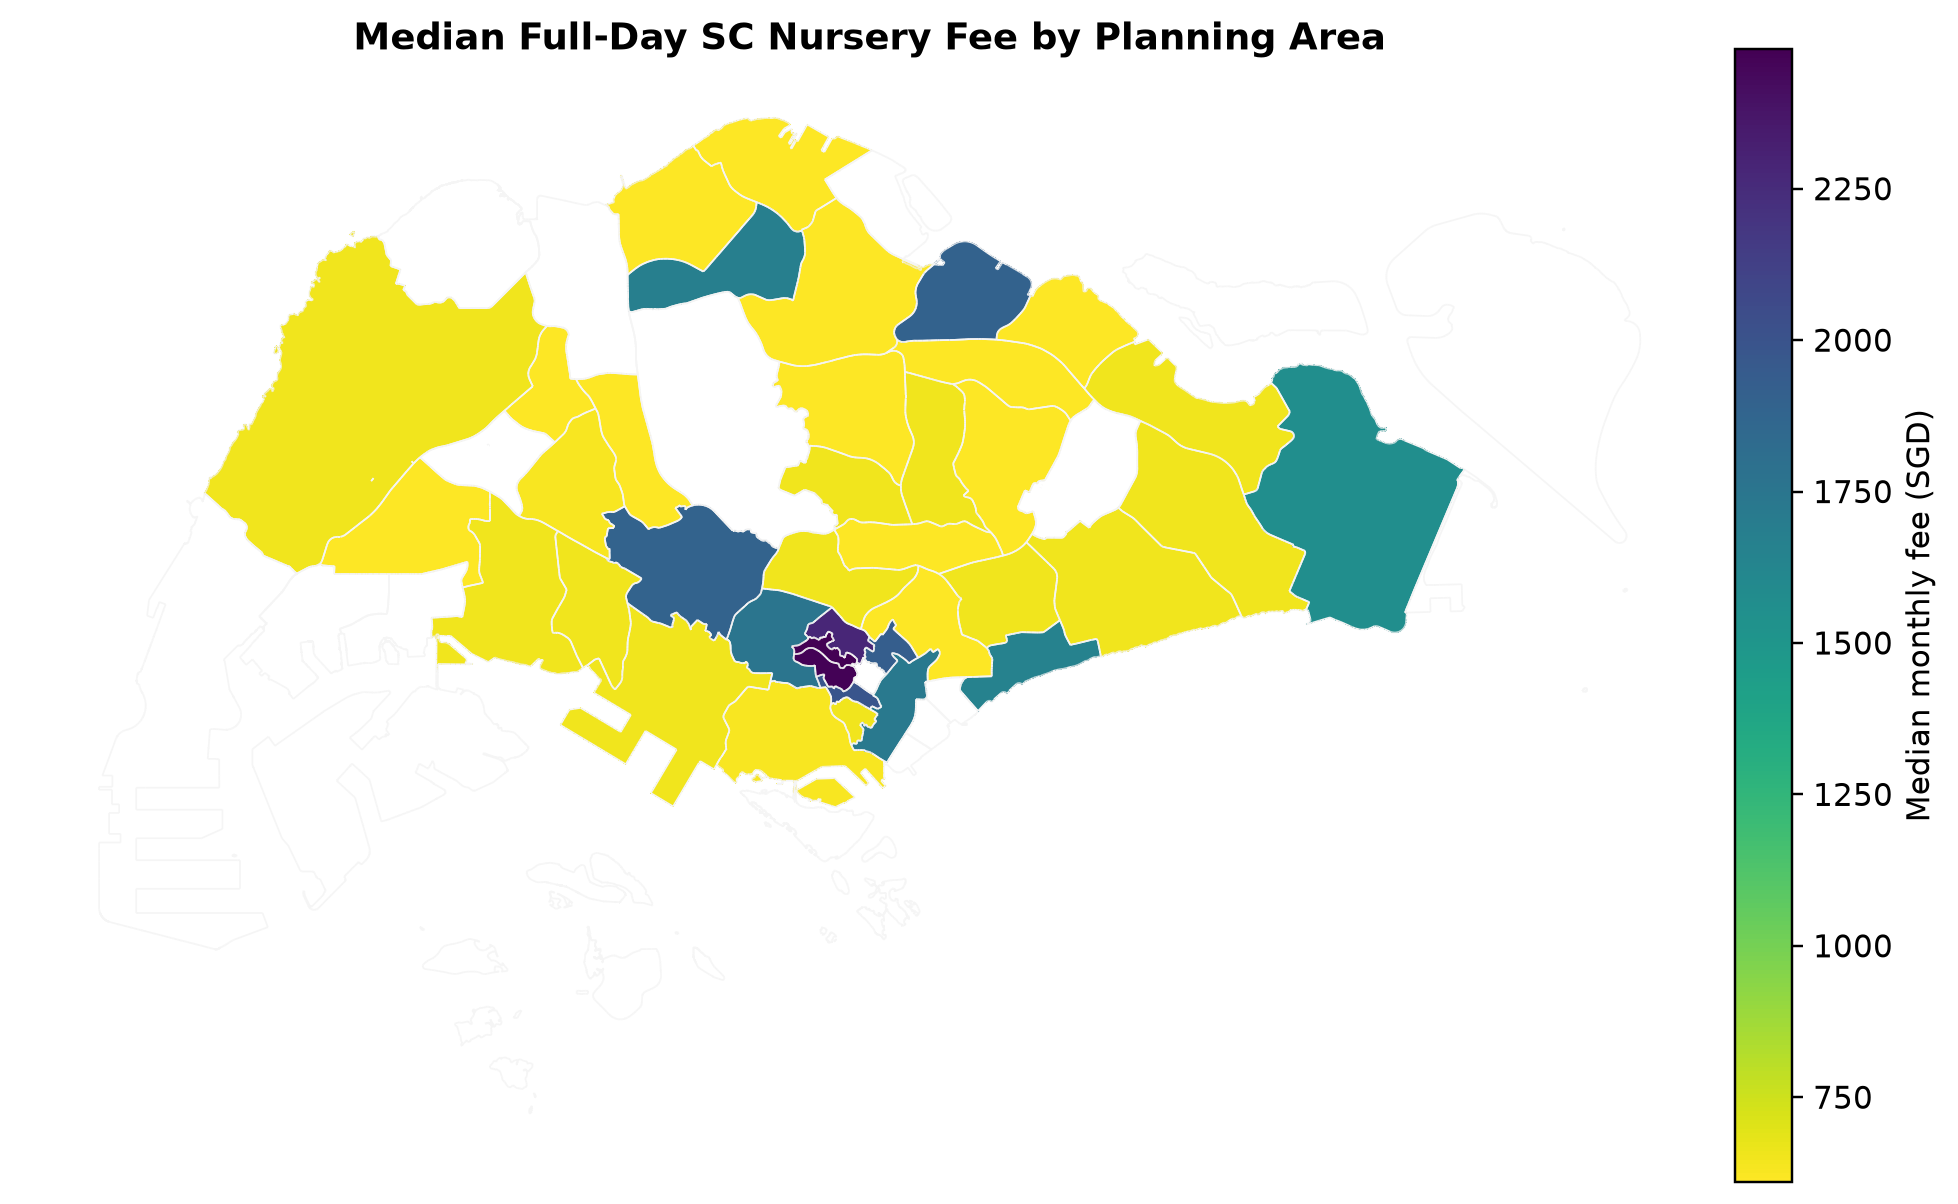
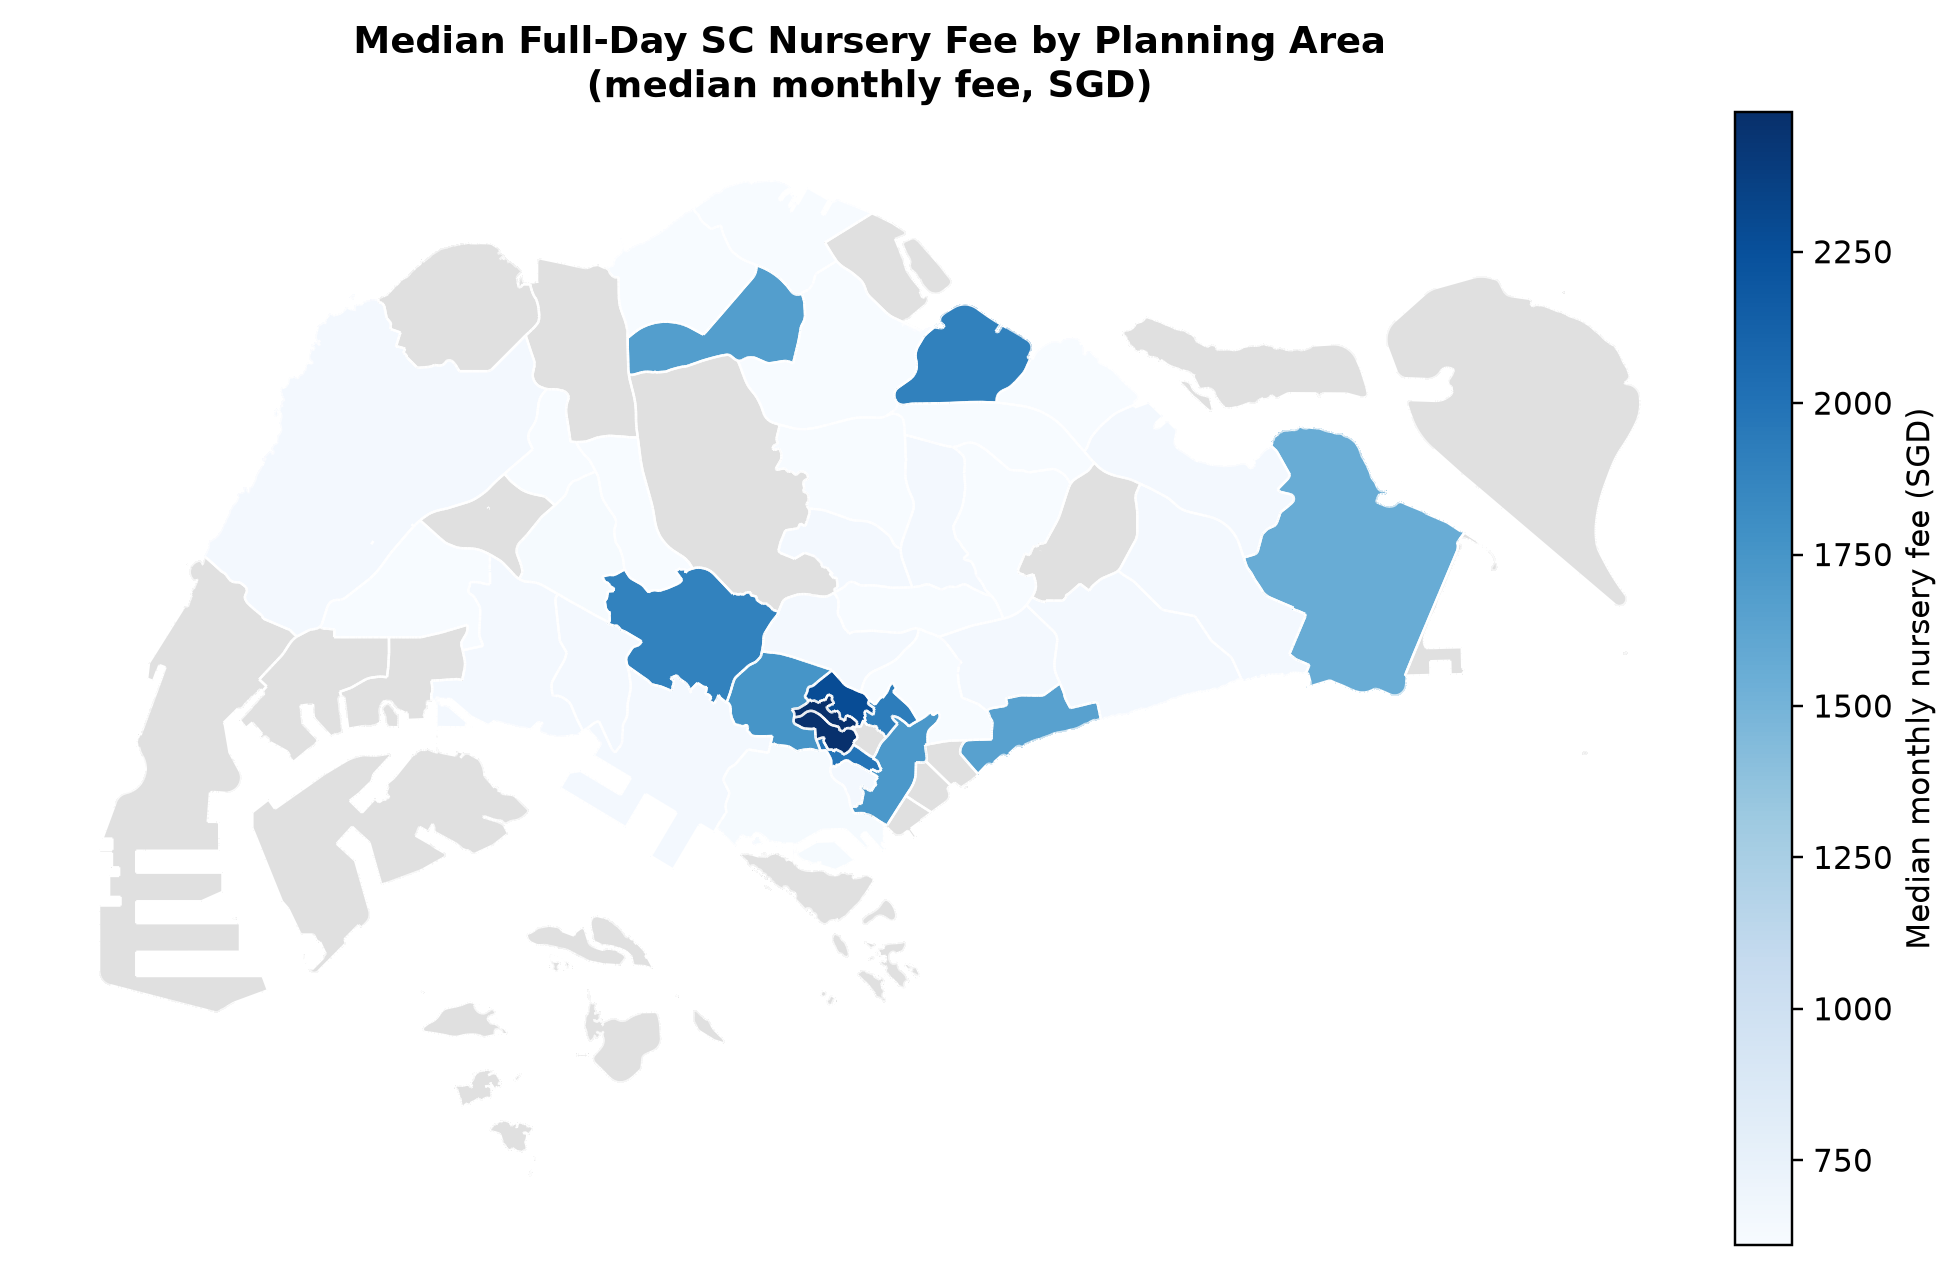
Update Nursery Fees Distribution Plots

diff --git a/scripts/spatial_autocorrelation_nursery_fee.py b/scripts/spatial_autocorrelation_nursery_fee.py
@@ -26,7 +26,7 @@ from pathlib import Path
 import matplotlib
 matplotlib.use("Agg")
 import matplotlib.pyplot as plt
-from matplotlib.colors import BoundaryNorm, ListedColormap
+from matplotlib.colors import BoundaryNorm, ListedColormap, Normalize
 from matplotlib.patches import Patch, Polygon as MplPolygon
 from matplotlib.collections import LineCollection, PatchCollection
 import numpy as np
@@ -285,10 +285,12 @@ def planning_area_boundary_segments(subzones: list[dict]) -> list[list[tuple[flo
     ]
 
 
-def add_planning_area_boundaries(ax, subzones):
+def add_planning_area_boundaries(
+    ax, subzones, color="#f5f5f5", linewidth=0.55
+):
     boundaries = planning_area_boundary_segments(subzones)
     ax.add_collection(
-        LineCollection(boundaries, colors="#f5f5f5", linewidths=0.55, zorder=3)
+        LineCollection(boundaries, colors=color, linewidths=linewidth, zorder=3)
     )
 
 
@@ -297,23 +299,86 @@ def set_map_style(ax):
     ax.set_axis_off()
 
 
+FEE_BOUNDS = np.asarray([600, 620, 640, 700, 1200, 1700, 2200, 3000], dtype=float)
+FEE_BIN_LABELS = [
+    "S$600–619",
+    "S$620–639",
+    "S$640–699",
+    "S$700–1,199",
+    "S$1,200–1,699",
+    "S$1,700–2,199",
+    "S$2,200–2,999",
+]
+
+
 def draw_fee_map(ax, subzones, area_df, spatial_unit_label="Planning Area"):
     lookup = dict(zip(area_df["planning_area"], area_df["median_fee_sgd"]))
     patches, values = feature_patches(subzones, lookup)
-    # Reverse viridis so higher (more expensive) fees use darker colours.
-    collection = PatchCollection(patches, cmap="viridis_r", edgecolor="none", linewidth=0)
+    is_planning_area = spatial_unit_label == "Planning Area"
+    if is_planning_area:
+        # Planning-area values are repeated over their constituent subzone
+        # pieces.  Suppressing polygon edges and drawing only the dissolved
+        # planning-area outline makes those pieces read as one merged area.
+        cmap = plt.cm.Blues.copy()
+        norm = Normalize(
+            vmin=float(np.nanmin(values)),
+            vmax=float(np.nanmax(values)),
+        )
+        edgecolor = "none"
+        linewidth = 0
+    else:
+        # Preserve the enhanced stepped scale on the more granular subzone map.
+        blue_shades = plt.cm.Blues(np.linspace(0.25, 0.95, len(FEE_BIN_LABELS)))
+        cmap = ListedColormap(blue_shades, name="nursery_fee_blues")
+        norm = BoundaryNorm(FEE_BOUNDS, cmap.N, clip=True)
+        edgecolor = "white"
+        linewidth = 0.25
+    cmap.set_bad("#e0e0e0")
+    collection = PatchCollection(
+        patches,
+        cmap=cmap,
+        norm=norm,
+        edgecolor=edgecolor,
+        linewidth=linewidth,
+    )
     collection.set_antialiased(False)
     collection.set_array(np.ma.masked_invalid(values))
     ax.add_collection(collection)
-    add_planning_area_boundaries(ax, subzones)
+    add_planning_area_boundaries(
+        ax,
+        subzones,
+        color="#ffffff" if is_planning_area else "#f5f5f5",
+        linewidth=0.8 if is_planning_area else 0.55,
+    )
     ax.autoscale_view()
     set_map_style(ax)
-    ax.set_title(
-        f"Median Full-Day SC Nursery Fee by {spatial_unit_label}",
-        fontweight="bold",
-    )
-    cbar = ax.figure.colorbar(collection, ax=ax, fraction=0.032, pad=0.01)
-    cbar.set_label("Median monthly fee (SGD)")
+    title = f"Median Full-Day SC Nursery Fee by {spatial_unit_label}"
+    if is_planning_area:
+        title += "\n(median monthly fee, SGD)"
+    ax.set_title(title, fontweight="bold", pad=11 if is_planning_area else None)
+    if is_planning_area:
+        # Match the child-density choropleth's narrow continuous scale and
+        # map-to-legend proportions.
+        cbar = ax.figure.colorbar(collection, ax=ax, fraction=0.032, pad=0.01)
+        cbar.set_label("Median monthly nursery fee (SGD)")
+    else:
+        tick_positions = (FEE_BOUNDS[:-1] + FEE_BOUNDS[1:]) / 2
+        cbar = ax.figure.colorbar(
+            collection,
+            ax=ax,
+            boundaries=FEE_BOUNDS,
+            ticks=tick_positions,
+            fraction=0.05,
+            pad=0.018,
+            spacing="uniform",
+            drawedges=True,
+        )
+        cbar.ax.set_yticklabels(FEE_BIN_LABELS)
+        cbar.ax.tick_params(labelsize=8, length=0, pad=5)
+        cbar.set_label("Median monthly nursery fee", fontweight="bold", labelpad=10)
+        cbar.outline.set_linewidth(0.8)
+        cbar.dividers.set_color("white")
+        cbar.dividers.set_linewidth(0.8)
     return collection
 
 
@@ -629,7 +694,12 @@ def main():
     except PermissionError:
         print("Warning: permutation CSV is open/locked; retained the existing copy.")
 
-    save_individual_plot(lambda ax: draw_fee_map(ax, subzones, area_df, unit_label), args.output_dir / "nursery_fee_choropleth.png")
+    fee_map_figsize = (9, 6.3) if args.spatial_unit == "planning_area" else (9, 7)
+    save_individual_plot(
+        lambda ax: draw_fee_map(ax, subzones, area_df, unit_label),
+        args.output_dir / "nursery_fee_choropleth.png",
+        figsize=fee_map_figsize,
+    )
     save_individual_plot(
         lambda ax: draw_global_moran_cluster_map(
             ax,
